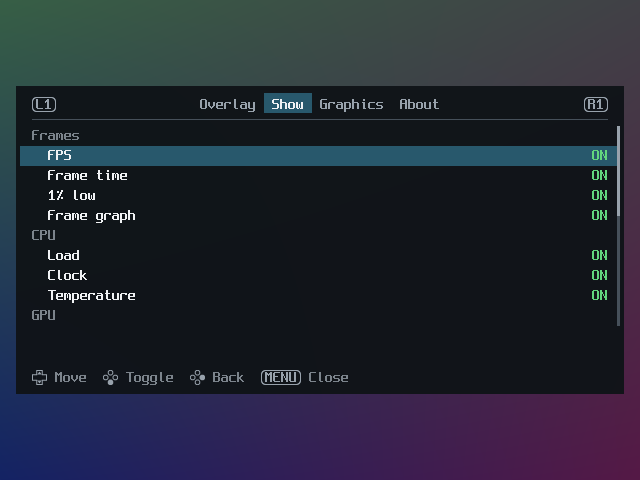
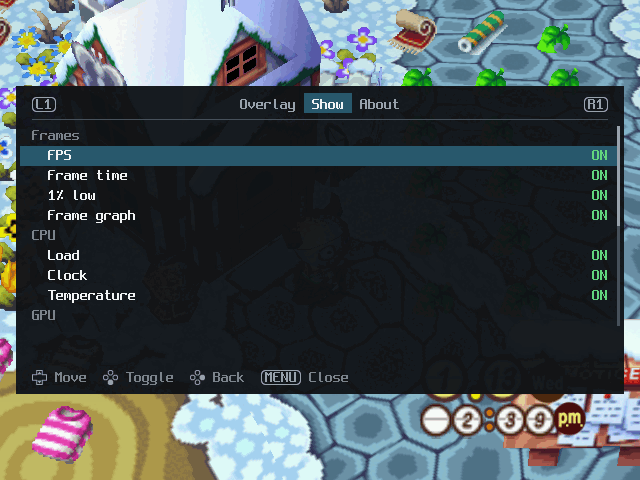
docs: update the screenshots and describe the shim and settings files
Bump the version to 0.2.0.

diff --git a/include/spo.h b/include/spo.h
@@ -13,7 +13,7 @@
 extern "C" {
 #endif
 #define SPO_ABI_VERSION 1u
-#define SPO_VERSION "0.1.0"
+#define SPO_VERSION "0.2.0"
 #define SPO_ALL_CONTROLLERS UINT32_MAX
 #define SPO_INIT_NO_RENDER 1u
 #define SPO_INIT_NO_SAMPLER_THREAD 2u

diff --git a/README.md b/README.md
@@ -6,8 +6,8 @@ Settings menu and performance overlay for Linux ports on ARM handhelds
 <p align="center"><img src="docs/images/overlay-galaxy.gif" alt="The overlay and its settings menu over gameplay on an RG40XX-H" width="640"></p>
 
 <p align="center">
-<img src="docs/images/overlay-menu.png" alt="The Show tab of the settings menu" width="320">
-<img src="docs/images/overlay-full.png" alt="The Full preset" width="320">
+<img src="docs/images/overlay-menu.png" alt="The Show tab of the settings menu on an RG DS" width="320">
+<img src="docs/images/overlay-full.png" alt="The Full preset over Animal Crossing on an RG DS" width="320">
 </p>
 
 - Tap Menu to open it. Menu+button firmware hotkeys keep working.
@@ -22,8 +22,14 @@ Settings menu and performance overlay for Linux ports on ARM handhelds
   colour change shows after it has held for a second.
 - Ports can add their own settings pages and counters. Settings are saved per
   port.
+- On a handheld with two screens the overlay and its menu go to the second
+  screen, and the Overlay tab can move them back over the game.
+- An optional preload shim adds the overlay to an SDL2 port that does not link
+  the library, and an ini file can declare that port's settings.
 - Each frame is a single draw call, with no allocations. Stats are read once a
   second on a background thread.
+
+<p align="center"><img src="docs/images/overlay-second-screen.png" alt="Game on the top screen and the overlay on the lower screen of an RG DS" width="320"></p>
 
 ## Usage
 
@@ -67,6 +73,10 @@ set(SPO_BUILD_SDL2 ON)
 add_subdirectory(third_party/sbc-port-overlay)
 target_link_libraries(my_port PRIVATE spo::static spo::sdl2)
 ```
+
+For an SDL2 port that does not link the library, build with
+`-DSPO_BUILD_PRELOAD=ON` and start it with `LD_PRELOAD=libspo_preload.so`; see
+[docs/api.md](docs/api.md#preload-shim).
 
 Tests: `cmake -S . -B build && cmake --build build && ctest --test-dir build`.
 
